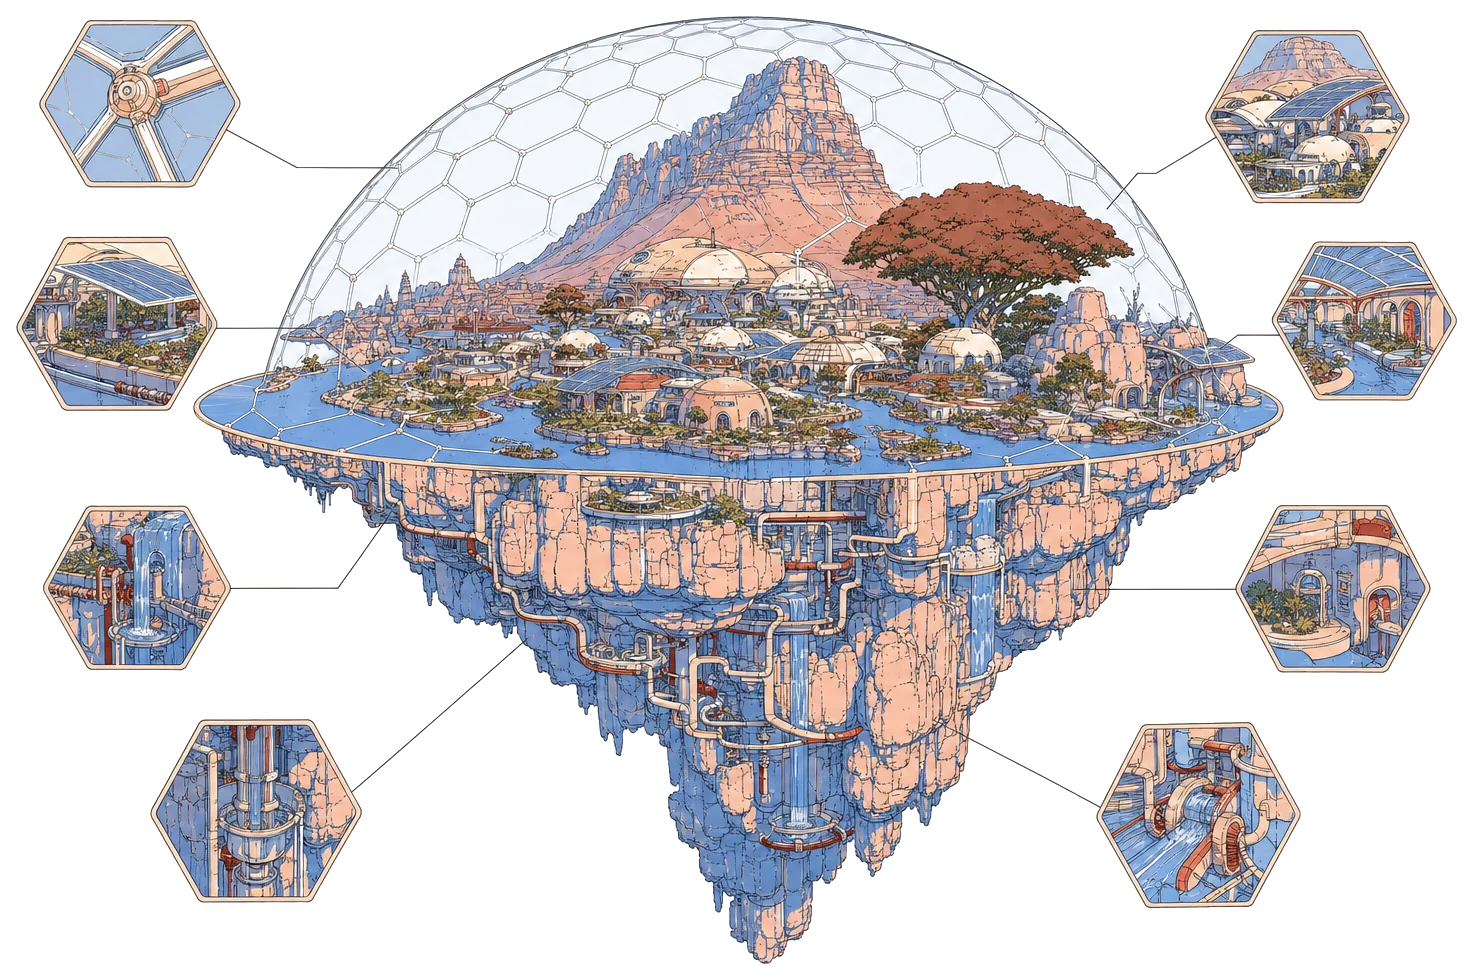
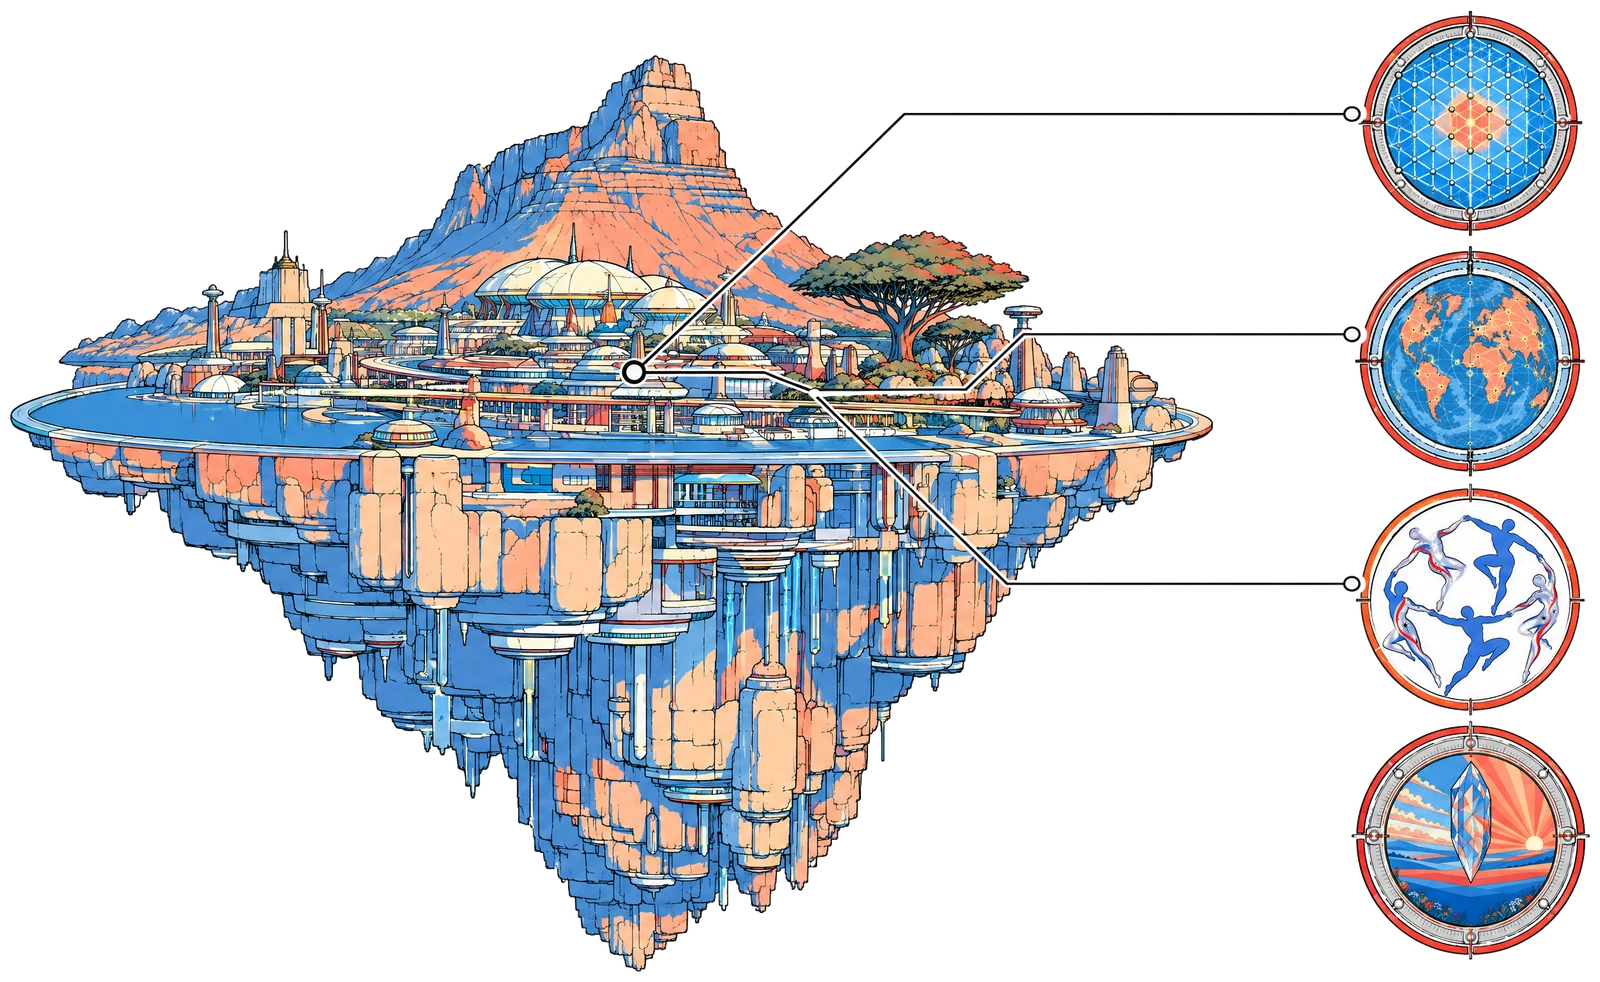
Mentors section and new hero image
- Mentors: carousel after Tracks, modelled on cai-research-fellowship.com
  (square photo, track tag, name, affiliation, prev/next arrows) in the
  site's ink-box style. Ten mentors: Nora Ammann and Christian Schroeder
  de Witt (Resilience); Lewis Hammond, Michiel Bakker, Joel Z. Leibo,
  Zhijing Jin, Vincent Conitzer, Tan Zhi Xuan, Max Kleiman-Weiner
  (Coordination, from the CAI fellowship site); Beatrice Erkers (Hope).
  Names and photos link to each mentor's own site.
- Track tags colour stroke and text: resilience red, coordination green,
  empowerment blue, hope purple. A black-outline 'Not yet confirmed'
  flag marks everyone except Christian Schroeder de Witt and Beatrice
  Erkers.
- Hero: Leo's new floating-island image with medallions for the four
  tracks; white keyed to transparent, trimmed, 1600px wide. Alt text and
  prompts.yaml updated.

diff --git a/index.html b/index.html
@@ -69,7 +69,7 @@
           </div>
         </div>
         <figure class="hero__image">
-          <img src="assets/illustrations/hero.webp" width="1473" height="980" alt="A floating island with Table Mountain at its centre, a solarpunk village sheltered beneath a translucent hexagonal dome">
+          <img src="assets/illustrations/hero.webp" width="1600" height="982" alt="A floating island with Table Mountain at its centre and a solarpunk Cape Town village, with leader lines out to four round medallions showing the track images; a hexagonal shield, a networked globe, a ring of dancers, and a dawn seen through a telescope">
         </figure>
       </div>
 
@@ -150,6 +150,150 @@
             </div>
           </article>
         </div>
+      </div>
+    </section>
+
+    <!-- MENTORS -->
+    <section id="mentors" class="section">
+      <div class="wrap">
+        <div class="mentors__head">
+          <h2 class="section-title">Mentors.</h2>
+          <div class="mentors__controls">
+            <button type="button" class="mentors__btn" data-mentors-prev aria-label="Previous mentors">&larr;</button>
+            <button type="button" class="mentors__btn" data-mentors-next aria-label="Next mentors">&rarr;</button>
+          </div>
+        </div>
+
+        <ul class="mentors" data-mentors aria-label="Mentors">
+          <li class="mentor">
+            <a href="https://nora-ammann.replit.app/" target="_blank" rel="noopener" class="mentor__photo-link" tabindex="-1" aria-hidden="true">
+              <img class="mentor__photo" src="assets/mentors/nora-ammann.webp" width="480" height="480" loading="lazy" alt="">
+            </a>
+            <div class="mentor__body">
+              <div class="mentor__tags">
+                <span class="mentor__tag mentor__tag--resilience">Resilience</span>
+                <span class="mentor__flag">Not yet confirmed</span>
+              </div>
+              <h3 class="mentor__name"><a href="https://nora-ammann.replit.app/" target="_blank" rel="noopener">Nora Ammann</a></h3>
+              <p class="mentor__affiliation">ARIA (Advanced Research and Invention Agency)</p>
+            </div>
+          </li>
+          <li class="mentor">
+            <a href="https://wittlab.ai/people/christian-schroeder-de-witt/" target="_blank" rel="noopener" class="mentor__photo-link" tabindex="-1" aria-hidden="true">
+              <img class="mentor__photo" src="assets/mentors/christian-schroeder-de-witt.webp" width="480" height="480" loading="lazy" alt="">
+            </a>
+            <div class="mentor__body">
+              <div class="mentor__tags">
+                <span class="mentor__tag mentor__tag--resilience">Resilience</span>
+              </div>
+              <h3 class="mentor__name"><a href="https://wittlab.ai/people/christian-schroeder-de-witt/" target="_blank" rel="noopener">Christian Schroeder de Witt</a></h3>
+              <p class="mentor__affiliation">UCL</p>
+            </div>
+          </li>
+          <li class="mentor">
+            <a href="https://lewishammond.com/" target="_blank" rel="noopener" class="mentor__photo-link" tabindex="-1" aria-hidden="true">
+              <img class="mentor__photo" src="assets/mentors/lewis-hammond.webp" width="480" height="480" loading="lazy" alt="">
+            </a>
+            <div class="mentor__body">
+              <div class="mentor__tags">
+                <span class="mentor__tag mentor__tag--coordination">Coordination</span>
+                <span class="mentor__flag">Not yet confirmed</span>
+              </div>
+              <h3 class="mentor__name"><a href="https://lewishammond.com/" target="_blank" rel="noopener">Lewis Hammond</a></h3>
+              <p class="mentor__affiliation">Cooperative AI Foundation &amp; University of Oxford</p>
+            </div>
+          </li>
+          <li class="mentor">
+            <a href="https://miba.dev/" target="_blank" rel="noopener" class="mentor__photo-link" tabindex="-1" aria-hidden="true">
+              <img class="mentor__photo" src="assets/mentors/michiel-bakker.webp" width="480" height="480" loading="lazy" alt="">
+            </a>
+            <div class="mentor__body">
+              <div class="mentor__tags">
+                <span class="mentor__tag mentor__tag--coordination">Coordination</span>
+                <span class="mentor__flag">Not yet confirmed</span>
+              </div>
+              <h3 class="mentor__name"><a href="https://miba.dev/" target="_blank" rel="noopener">Michiel Bakker</a></h3>
+              <p class="mentor__affiliation">MIT &amp; Google DeepMind</p>
+            </div>
+          </li>
+          <li class="mentor">
+            <a href="https://www.jzleibo.com/" target="_blank" rel="noopener" class="mentor__photo-link" tabindex="-1" aria-hidden="true">
+              <img class="mentor__photo" src="assets/mentors/joel-z-leibo.webp" width="480" height="480" loading="lazy" alt="">
+            </a>
+            <div class="mentor__body">
+              <div class="mentor__tags">
+                <span class="mentor__tag mentor__tag--coordination">Coordination</span>
+                <span class="mentor__flag">Not yet confirmed</span>
+              </div>
+              <h3 class="mentor__name"><a href="https://www.jzleibo.com/" target="_blank" rel="noopener">Joel Z. Leibo</a></h3>
+              <p class="mentor__affiliation">Google DeepMind</p>
+            </div>
+          </li>
+          <li class="mentor">
+            <a href="https://zhijing-jin.com/" target="_blank" rel="noopener" class="mentor__photo-link" tabindex="-1" aria-hidden="true">
+              <img class="mentor__photo" src="assets/mentors/zhijing-jin.webp" width="480" height="480" loading="lazy" alt="">
+            </a>
+            <div class="mentor__body">
+              <div class="mentor__tags">
+                <span class="mentor__tag mentor__tag--coordination">Coordination</span>
+                <span class="mentor__flag">Not yet confirmed</span>
+              </div>
+              <h3 class="mentor__name"><a href="https://zhijing-jin.com/" target="_blank" rel="noopener">Zhijing Jin</a></h3>
+              <p class="mentor__affiliation">University of Toronto</p>
+            </div>
+          </li>
+          <li class="mentor">
+            <a href="https://www.cs.cmu.edu/~conitzer/" target="_blank" rel="noopener" class="mentor__photo-link" tabindex="-1" aria-hidden="true">
+              <img class="mentor__photo" src="assets/mentors/vincent-conitzer.webp" width="480" height="480" loading="lazy" alt="">
+            </a>
+            <div class="mentor__body">
+              <div class="mentor__tags">
+                <span class="mentor__tag mentor__tag--coordination">Coordination</span>
+                <span class="mentor__flag">Not yet confirmed</span>
+              </div>
+              <h3 class="mentor__name"><a href="https://www.cs.cmu.edu/~conitzer/" target="_blank" rel="noopener">Vincent Conitzer</a></h3>
+              <p class="mentor__affiliation">Carnegie Mellon University and University of Oxford</p>
+            </div>
+          </li>
+          <li class="mentor">
+            <a href="https://ztangent.github.io/" target="_blank" rel="noopener" class="mentor__photo-link" tabindex="-1" aria-hidden="true">
+              <img class="mentor__photo" src="assets/mentors/tan-zhi-xuan.webp" width="480" height="480" loading="lazy" alt="">
+            </a>
+            <div class="mentor__body">
+              <div class="mentor__tags">
+                <span class="mentor__tag mentor__tag--coordination">Coordination</span>
+                <span class="mentor__flag">Not yet confirmed</span>
+              </div>
+              <h3 class="mentor__name"><a href="https://ztangent.github.io/" target="_blank" rel="noopener">Tan Zhi Xuan</a></h3>
+              <p class="mentor__affiliation">National University of Singapore</p>
+            </div>
+          </li>
+          <li class="mentor">
+            <a href="https://faculty.washington.edu/maxkw/" target="_blank" rel="noopener" class="mentor__photo-link" tabindex="-1" aria-hidden="true">
+              <img class="mentor__photo" src="assets/mentors/max-kleiman-weiner.webp" width="480" height="480" loading="lazy" alt="">
+            </a>
+            <div class="mentor__body">
+              <div class="mentor__tags">
+                <span class="mentor__tag mentor__tag--coordination">Coordination</span>
+                <span class="mentor__flag">Not yet confirmed</span>
+              </div>
+              <h3 class="mentor__name"><a href="https://faculty.washington.edu/maxkw/" target="_blank" rel="noopener">Max Kleiman-Weiner</a></h3>
+              <p class="mentor__affiliation">University of Washington</p>
+            </div>
+          </li>
+          <li class="mentor">
+            <a href="https://www.existentialhope.com/team/beatrice-erkers" target="_blank" rel="noopener" class="mentor__photo-link" tabindex="-1" aria-hidden="true">
+              <img class="mentor__photo" src="assets/mentors/beatrice-erkers.webp" width="480" height="480" loading="lazy" alt="">
+            </a>
+            <div class="mentor__body">
+              <div class="mentor__tags">
+                <span class="mentor__tag mentor__tag--hope">Hope</span>
+              </div>
+              <h3 class="mentor__name"><a href="https://www.existentialhope.com/team/beatrice-erkers" target="_blank" rel="noopener">Beatrice Erkers</a></h3>
+              <p class="mentor__affiliation">Existential Hope, Foresight Institute</p>
+            </div>
+          </li>
+        </ul>
       </div>
     </section>
 
@@ -419,5 +563,6 @@
   </footer>
 
   <script src="assets/js/cisai-header.js" defer></script>
+  <script src="assets/js/mentors.js" defer></script>
 </body>
 </html>

diff --git a/styles.css b/styles.css
@@ -301,6 +301,98 @@ ul, ol { padding: 0; list-style: none; }
 .track__desc { color: var(--muted); }
 .track__desc + .track__desc { margin-top: 1em; }
 
+/* ---------- Mentors ---------- */
+/* Carousel modelled on cai-research-fellowship.com (square photo, name,
+   affiliation, prev/next arrows), drawn in this site's ink-box language. */
+
+.mentors__head {
+  display: flex;
+  align-items: flex-end;
+  justify-content: space-between;
+  gap: 24px;
+  margin-bottom: clamp(28px, 4vw, 44px);
+}
+.mentors__head .section-title { margin-bottom: 0; }
+
+.mentors__controls { display: flex; gap: 8px; flex-shrink: 0; }
+.mentors__btn {
+  width: 44px;
+  height: 44px;
+  border: var(--border);
+  background: var(--white);
+  color: var(--ink);
+  font-size: 18px;
+  cursor: pointer;
+  transition: background 0.15s ease, color 0.15s ease, border-color 0.15s ease;
+}
+.mentors__btn:hover { background: var(--blue); border-color: var(--blue); color: var(--white); }
+.mentors__btn:disabled { opacity: 0.35; cursor: default; background: var(--white); border-color: var(--ink); color: var(--ink); }
+
+.mentors {
+  --per-view: 4;
+  --gap: 16px;
+  display: grid;
+  grid-auto-flow: column;
+  grid-auto-columns: calc((100% - (var(--per-view) - 1) * var(--gap)) / var(--per-view));
+  gap: var(--gap);
+  margin: 0;
+  padding: 0;
+  list-style: none;
+  overflow-x: auto;
+  scroll-snap-type: x mandatory;
+  scroll-behavior: smooth;
+  scrollbar-width: none;
+}
+.mentors::-webkit-scrollbar { display: none; }
+
+.mentor {
+  display: flex;
+  flex-direction: column;
+  scroll-snap-align: start;
+  background: var(--white);
+  border: var(--border);
+}
+.mentor__photo-link { display: block; border-bottom: var(--border); }
+.mentor__photo {
+  display: block;
+  width: 100%;
+  height: auto;
+  aspect-ratio: 1 / 1;
+  object-fit: cover;
+  background: var(--faint);
+}
+.mentor__body { padding: 18px 20px 22px; }
+.mentor__tags {
+  display: flex;
+  flex-wrap: wrap;
+  gap: 6px;
+  margin-bottom: 12px;
+}
+.mentor__tag,
+.mentor__flag {
+  display: inline-block;
+  padding: 3px 8px;
+  border: var(--border);
+  font-family: var(--font-display);
+  font-size: 11px;
+  letter-spacing: 0.08em;
+  text-transform: uppercase;
+}
+/* Track colour on stroke and text; no fill. */
+.mentor__tag--resilience   { border-color: var(--red);  color: var(--red); }
+.mentor__tag--coordination { border-color: #1e8a44;     color: #1e8a44; }
+.mentor__tag--empowerment  { border-color: var(--blue); color: var(--blue); }
+.mentor__tag--hope         { border-color: #7a3fc8;     color: #7a3fc8; }
+.mentor__flag { color: var(--ink); }
+.mentor__name {
+  font-size: clamp(18px, 1.5vw, 21px);
+  line-height: 1.2;
+  margin: 0 0 6px;
+}
+.mentor__name a { color: inherit; text-decoration: none; }
+.mentor__name a:hover { color: var(--blue); }
+.mentor__affiliation { color: var(--muted); font-size: 15px; line-height: 1.45; }
+
 /* ---------- Key details ---------- */
 
 .details {
@@ -497,6 +589,7 @@ ul, ol { padding: 0; list-style: none; }
 
 @media (max-width: 1080px) {
   .calls { grid-template-columns: repeat(2, minmax(0, 1fr)); }
+  .mentors { --per-view: 3; }
 }
 
 @media (max-width: 900px) {
@@ -513,6 +606,7 @@ ul, ol { padding: 0; list-style: none; }
 }
 
 @media (max-width: 640px) {
+  .mentors { --per-view: 1.35; --gap: 12px; }
   .tracks,
   .calls,
   .details { grid-template-columns: minmax(0, 1fr); }

diff --git a/assets/js/mentors.js b/assets/js/mentors.js
@@ -1,0 +1,26 @@
+// Mentors carousel: prev/next buttons scroll by one card; buttons disable at the ends.
+document.addEventListener("DOMContentLoaded", function () {
+  var list = document.querySelector("[data-mentors]");
+  var prev = document.querySelector("[data-mentors-prev]");
+  var next = document.querySelector("[data-mentors-next]");
+  if (!list || !prev || !next) return;
+
+  function step() {
+    var card = list.querySelector(".mentor");
+    if (!card) return list.clientWidth;
+    var gap = parseFloat(getComputedStyle(list).columnGap) || 0;
+    return card.getBoundingClientRect().width + gap;
+  }
+
+  function update() {
+    var max = list.scrollWidth - list.clientWidth - 1;
+    prev.disabled = list.scrollLeft <= 1;
+    next.disabled = list.scrollLeft >= max;
+  }
+
+  prev.addEventListener("click", function () { list.scrollBy({ left: -step(), behavior: "smooth" }); });
+  next.addEventListener("click", function () { list.scrollBy({ left: step(), behavior: "smooth" }); });
+  list.addEventListener("scroll", update, { passive: true });
+  window.addEventListener("resize", update);
+  update();
+});
